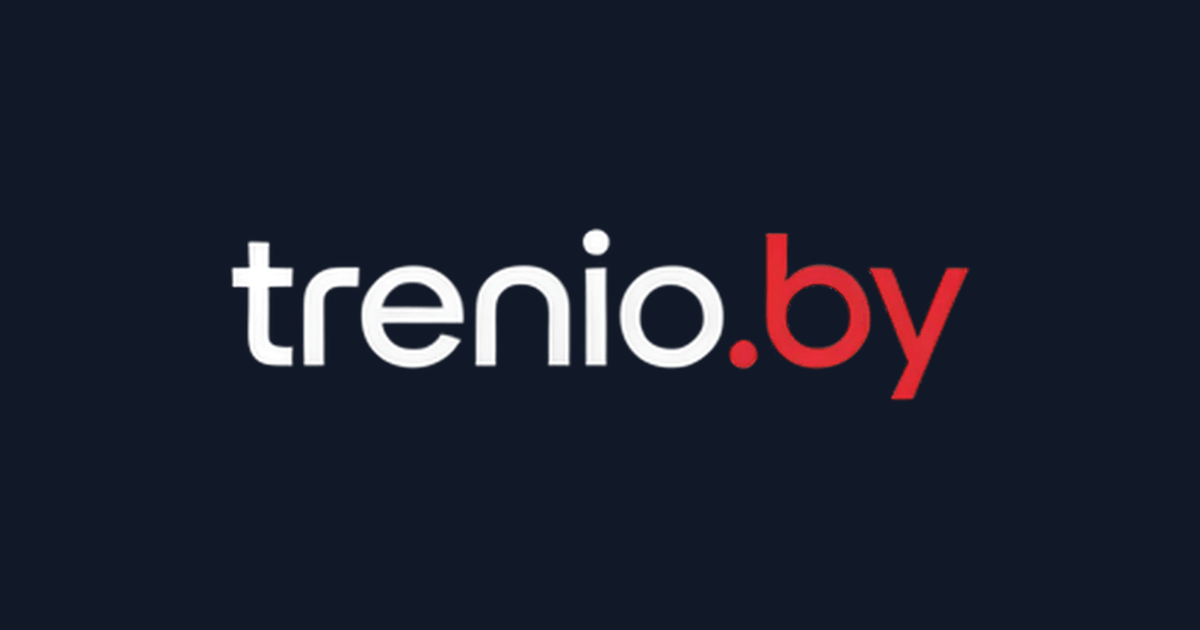
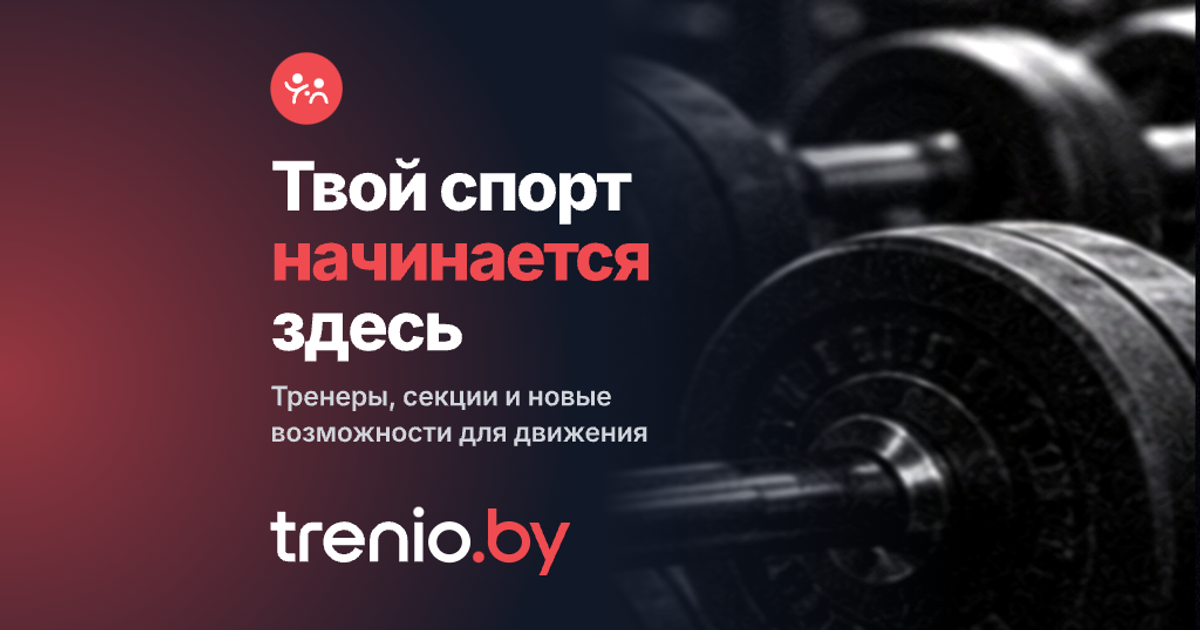
[CURSOR] Use the brand card as the default messenger preview.
Pages without their own picture now share the 1200×630 brand image, while trainer and category previews keep their own frames.

diff --git a/src/lib/seo/head.test.ts b/src/lib/seo/head.test.ts
@@ -77,7 +77,7 @@ function assertKind(kind: SeoPageKind, head: HeadWithGraph) {
   assert.equal(JSON.stringify(head.scripts).includes("telephone"), false, kind);
 }
 
-test("the default share image is the wide wordmark card", () => {
+test("the default share image is the brand share card", () => {
   const head = seoHead({
     title: "Найти тренера",
     description: "Каталог тренеров.",
@@ -161,9 +161,9 @@ test("city and category snippets use the Belarus query, not an alias dump", () =
   assert.equal(head.meta.some((item) => "property" in item && item.property === "og:site_name"), false);
   const cityOnly = catalogPageHead(brest, null);
   assert.equal(metaContent(cityOnly, "property", "og:title"), "Найти тренера в Бресте");
-  const wordmark = cityOnly.meta.find((item) => "property" in item && item.property === "og:image");
+  const share = cityOnly.meta.find((item) => "property" in item && item.property === "og:image");
   assert.equal(
-    wordmark && "content" in wordmark ? wordmark.content : "",
+    share && "content" in share ? share.content : "",
     "https://trenio.by/og.png",
   );
   const fitness = categorySearchDescription("Найти тренера по фитнесу", "длинный текст", [

diff --git a/src/lib/seo/head.ts b/src/lib/seo/head.ts
@@ -19,9 +19,9 @@ export type SeoHeadInput = {
   path: string;
   index?: boolean;
   follow?: boolean;
-  /** Site-relative or absolute image. Omit to use the 1200×630 wordmark card. */
+  /** Site-relative or absolute image. Omit to use the brand share card, 1200×630, path /og.png. */
   image?: string | null;
-  /** Alt for a page photo. The wordmark card keeps its own alt. */
+  /** Alt for a page photo. The brand share card keeps its own alt. */
   imageAlt?: string;
   /** Pixel size of `image`. Declared so a root 1200×630 does not stay attached to another file. */
   imageWidth?: number;

diff --git a/src/lib/seo/site.ts b/src/lib/seo/site.ts
@@ -35,7 +35,7 @@ export const SITE_THREADS_URL = "https://www.threads.com/@trenioby";
 /** Square mark for the organization logo in structured data. */
 export const SITE_LOGO = "/logo-mark.png";
 
-/** 1200×630 card: the white wordmark on the footer background. */
+/** Brand share card, 1200×630, path /og.png. */
 export const DEFAULT_SHARE_IMAGE = "/og.png";
 
 export function absoluteUrl(pathOrUrl: string) {

diff --git a/.cursor/skills/trenio-seo/SKILL.md b/.cursor/skills/trenio-seo/SKILL.md
@@ -62,7 +62,7 @@ Leave:
 
 These are the live gaps. Repeat one only when the task touches it.
 
-- The default share image is `/og.png`: the white wordmark on `#111827`, 1200×630. Every trainer page with a photo uses `/og/trainers/{slug}.jpg` for Open Graph, the Person image, and the sitemap. The file is that page's current first gallery photo (the same frame the page shows), rendered as a 1200×630 baseline JPEG. The query carries the profile time and that file name, so a new lead photo is a new URL. A category, sport, or city-and-sport page uses `/og/categories/{parent}.jpg`: the section illustration fitted whole into the same frame. Messenger titles omit the site name (`og:title` and `twitter:title` are `documentLead`). Do not emit `og:site_name`: clients put that tag on the first line of the card. The document title still ends with the site name.
+- The default share image is `/og.png`: the brand share card, 1200×630. Every trainer page with a photo uses `/og/trainers/{slug}.jpg` for Open Graph, the Person image, and the sitemap. The file is that page's current first gallery photo (the same frame the page shows), rendered as a 1200×630 baseline JPEG. The query carries the profile time and that file name, so a new lead photo is a new URL. A category, sport, or city-and-sport page uses `/og/categories/{parent}.jpg`: the section illustration fitted whole into the same frame. Messenger titles omit the site name (`og:title` and `twitter:title` are `documentLead`). Do not emit `og:site_name`: clients put that tag on the first line of the card. The document title still ends with the site name.
 - There is no blog. Do not add `/blog` until an article is actually published.
 - `/clubs` is `noindex` while `CLUBS_LIST` is empty. Index it when a published club exists, and use the `SportsActivityLocation` graph already on `/clubs/$slug`.
 - City and category pages do not emit `ItemList` of trainers. Add it only from the trainers the page actually renders.
